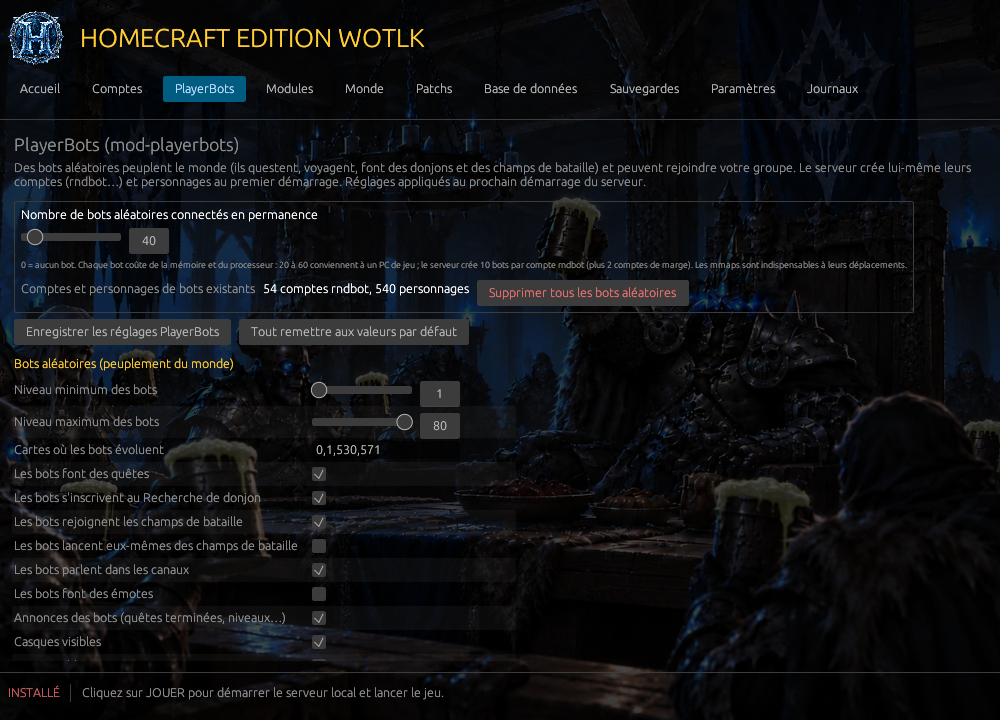
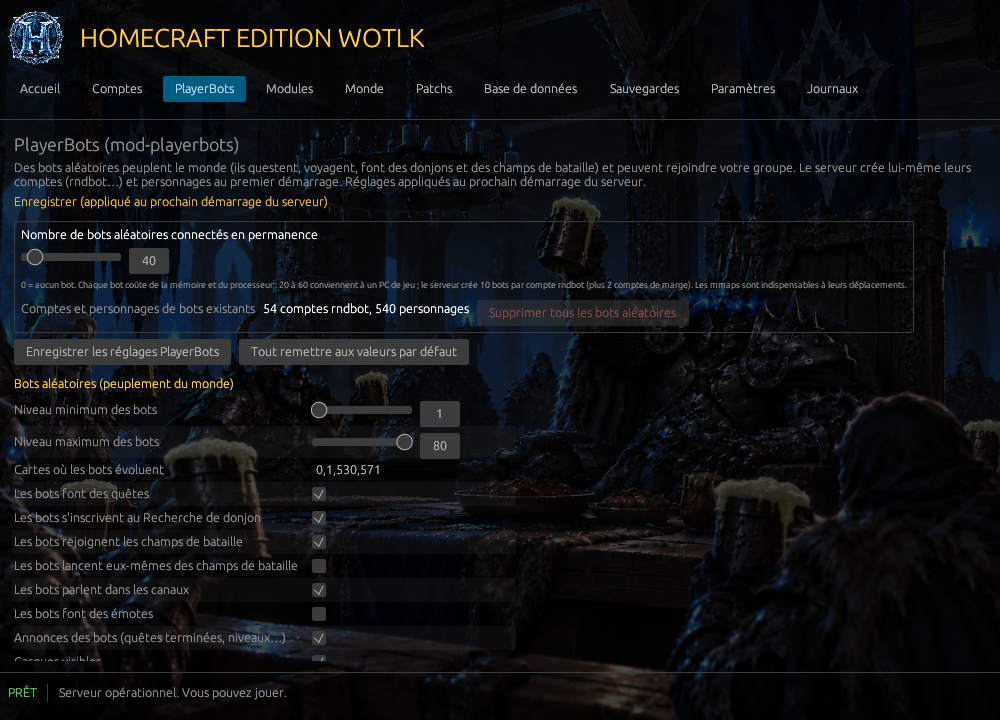
Captures du README refaites avec le serveur démarré
- Les neuf captures montrent maintenant les trois services en service,
  l'état PRÊT et 40 bots en ligne.
- Option --screenshots : avec --start, la visite attend 45 s après que les
  services sont prêts pour laisser les bots se connecter.

Changed region(s): [[0.0, 0.275, 0.899, 0.9167], [0.0, 0.9472, 0.434, 0.9778]]

diff --git a/Launcher/src/ui.rs b/Launcher/src/ui.rs
@@ -52,6 +52,8 @@ pub struct App {
     quit_at: Option<std::time::Instant>,
     /// Visite de captures (--screenshots) : dossier, index de l'onglet, échéance de la prochaine étape, capture demandée
     shots: Option<(PathBuf, usize, std::time::Instant, bool)>,
+    /// Délai d'attente des bots déjà accordé (visite avec --start)
+    shots_settled: bool,
     pending: Option<Pending>,
     show_report: bool,
     // Comptes
@@ -112,6 +114,7 @@ impl App {
             closing: false,
             quit_at: quit_after.map(|s| std::time::Instant::now() + std::time::Duration::from_secs(s)),
             shots: shots_dir.map(|d| (d, 0, std::time::Instant::now() + std::time::Duration::from_secs(6), false)),
+            shots_settled: false,
             pending: None,
             show_report: false,
             acc_user: String::new(),
@@ -215,6 +218,15 @@ impl App {
             *next = std::time::Instant::now() + std::time::Duration::from_secs(1);
             return;
         }
+        // Services tout juste prêts : laisser 45 s aux bots pour se connecter avant la première capture.
+        if *idx == 0 && snap.state.services_up() && !self.shots_settled {
+            self.shots_settled = true;
+            if let Some((_, _, next, _)) = self.shots.as_mut() {
+                *next = std::time::Instant::now() + std::time::Duration::from_secs(45);
+            }
+            return;
+        }
+        let Some((_, idx, next, requested)) = self.shots.as_mut() else { return };
         if self.tab != SHOT_TABS[*idx].0 {
             self.tab = SHOT_TABS[*idx].0;
             *next = std::time::Instant::now() + std::time::Duration::from_millis(2500);

diff --git a/Documentation/05-Launcher-Rust.md b/Documentation/05-Launcher-Rust.md
@@ -106,7 +106,7 @@ indépendamment, avec un raccourci vers le fichier de configuration de chacun.
 
 Option de documentation `--screenshots <dossier>` : le launcher parcourt neuf onglets, attend un état stable, capture
 chacun par `ViewportCommand::Screenshot` d'egui et l'enregistre en `launcher-<onglet>.png`, puis se ferme. Captures
-du README dans `Documentation/images/` (1000 × 720), faites base WoTLK seule en service (le launcher BC de
+du README dans `Documentation/images/` (1000 × 720), refaites le 2026-10-17 à 14:57 avec `--start` : trois services
 l'utilisateur tournait : pas d'authserver ni de worldserver), depuis une jonction temporaire `C:\HomeCraft-WoTLK` pour
 ne pas afficher le chemin du profil Windows. Corrigé au passage : la colonne « Module » de l'onglet Modules était
 réduite au minimum par egui (descriptions coupées mot à mot) ; largeur désormais fixée.
